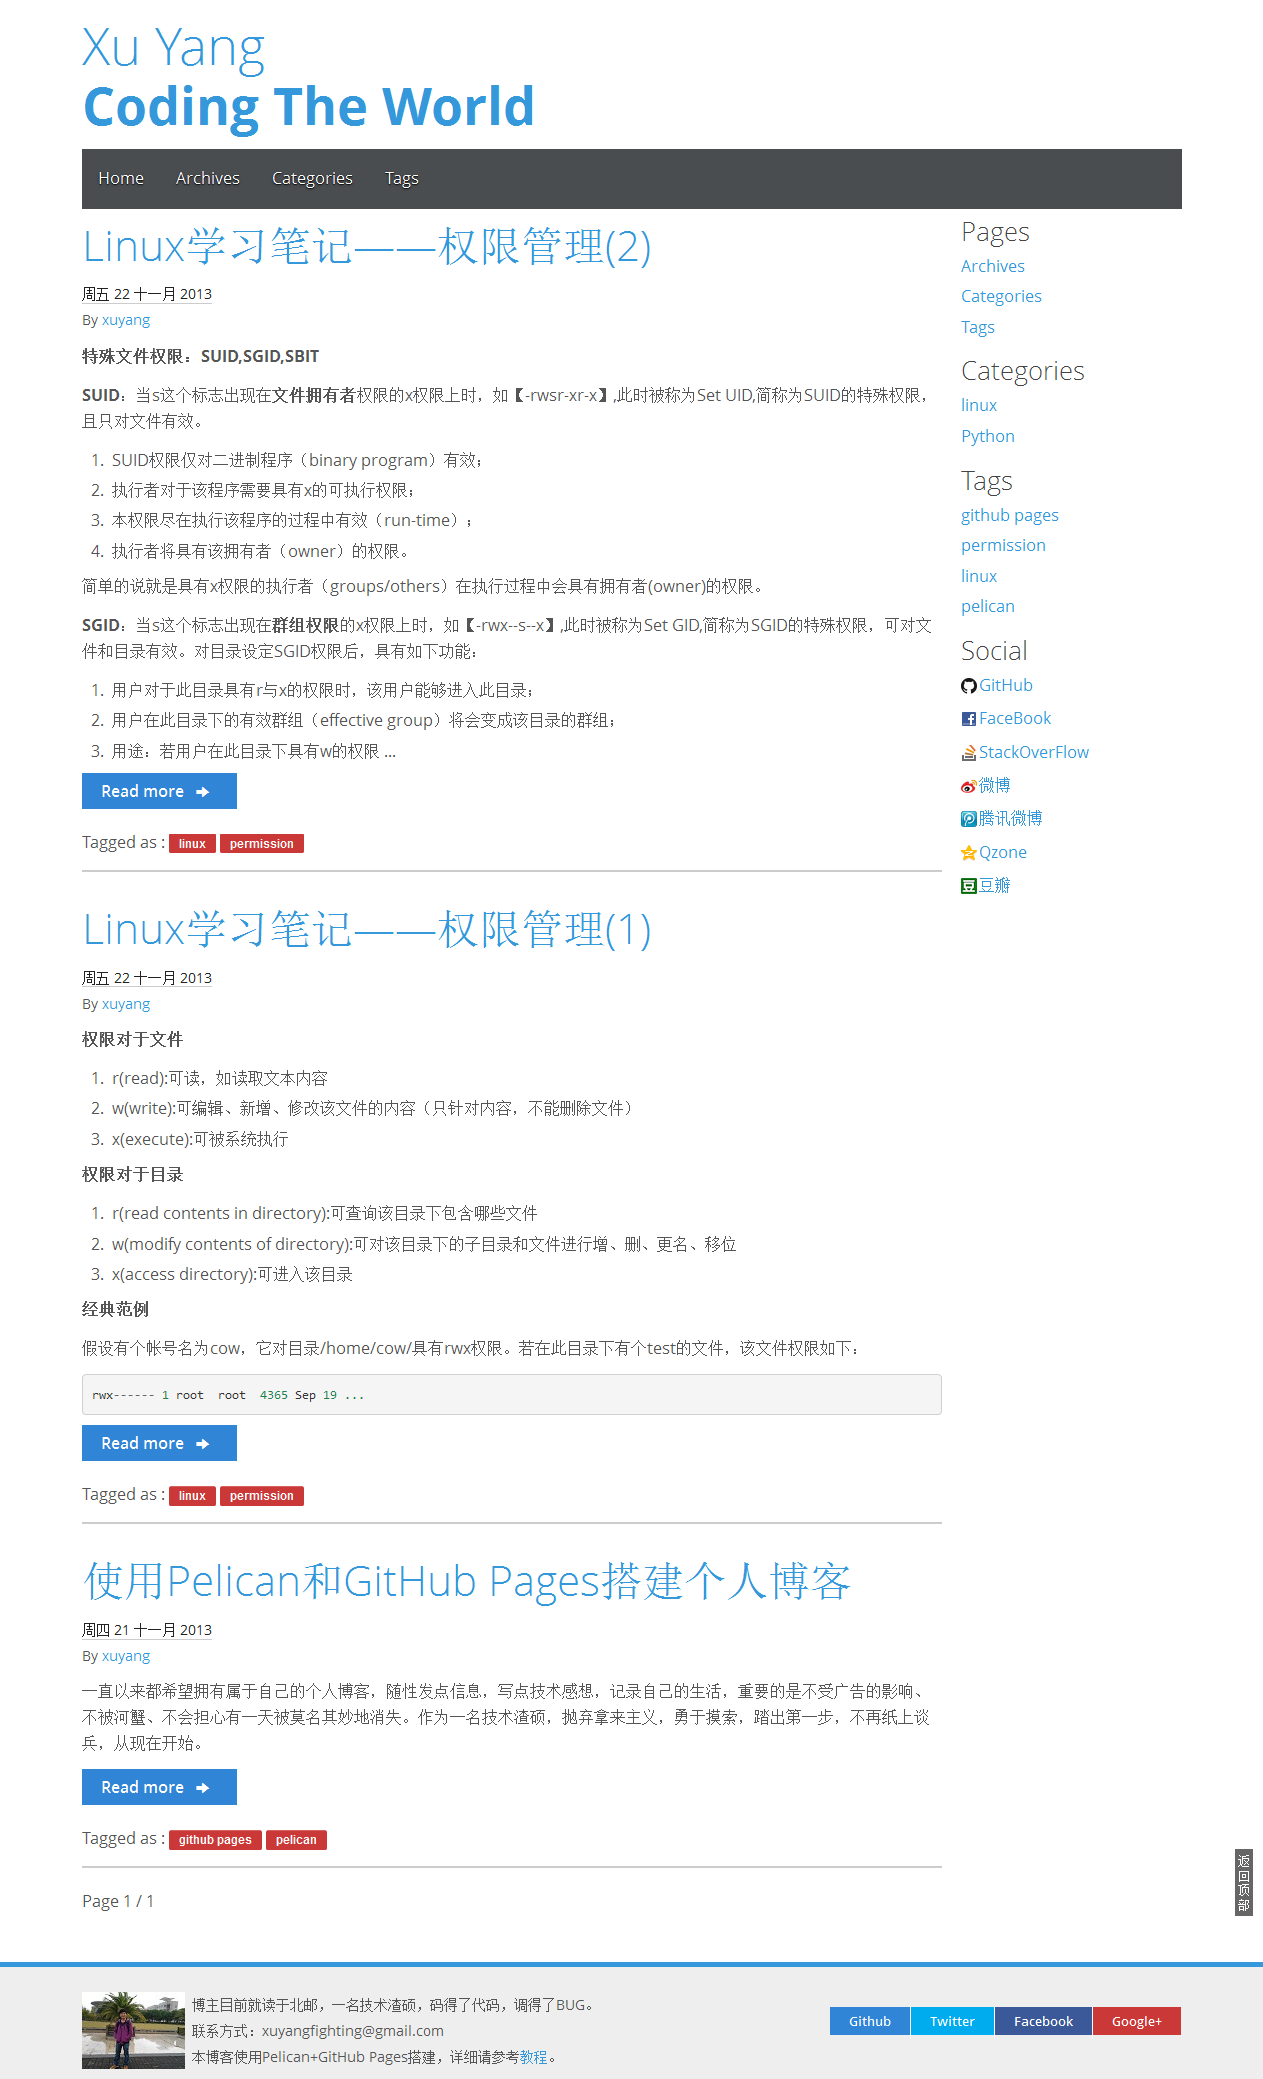
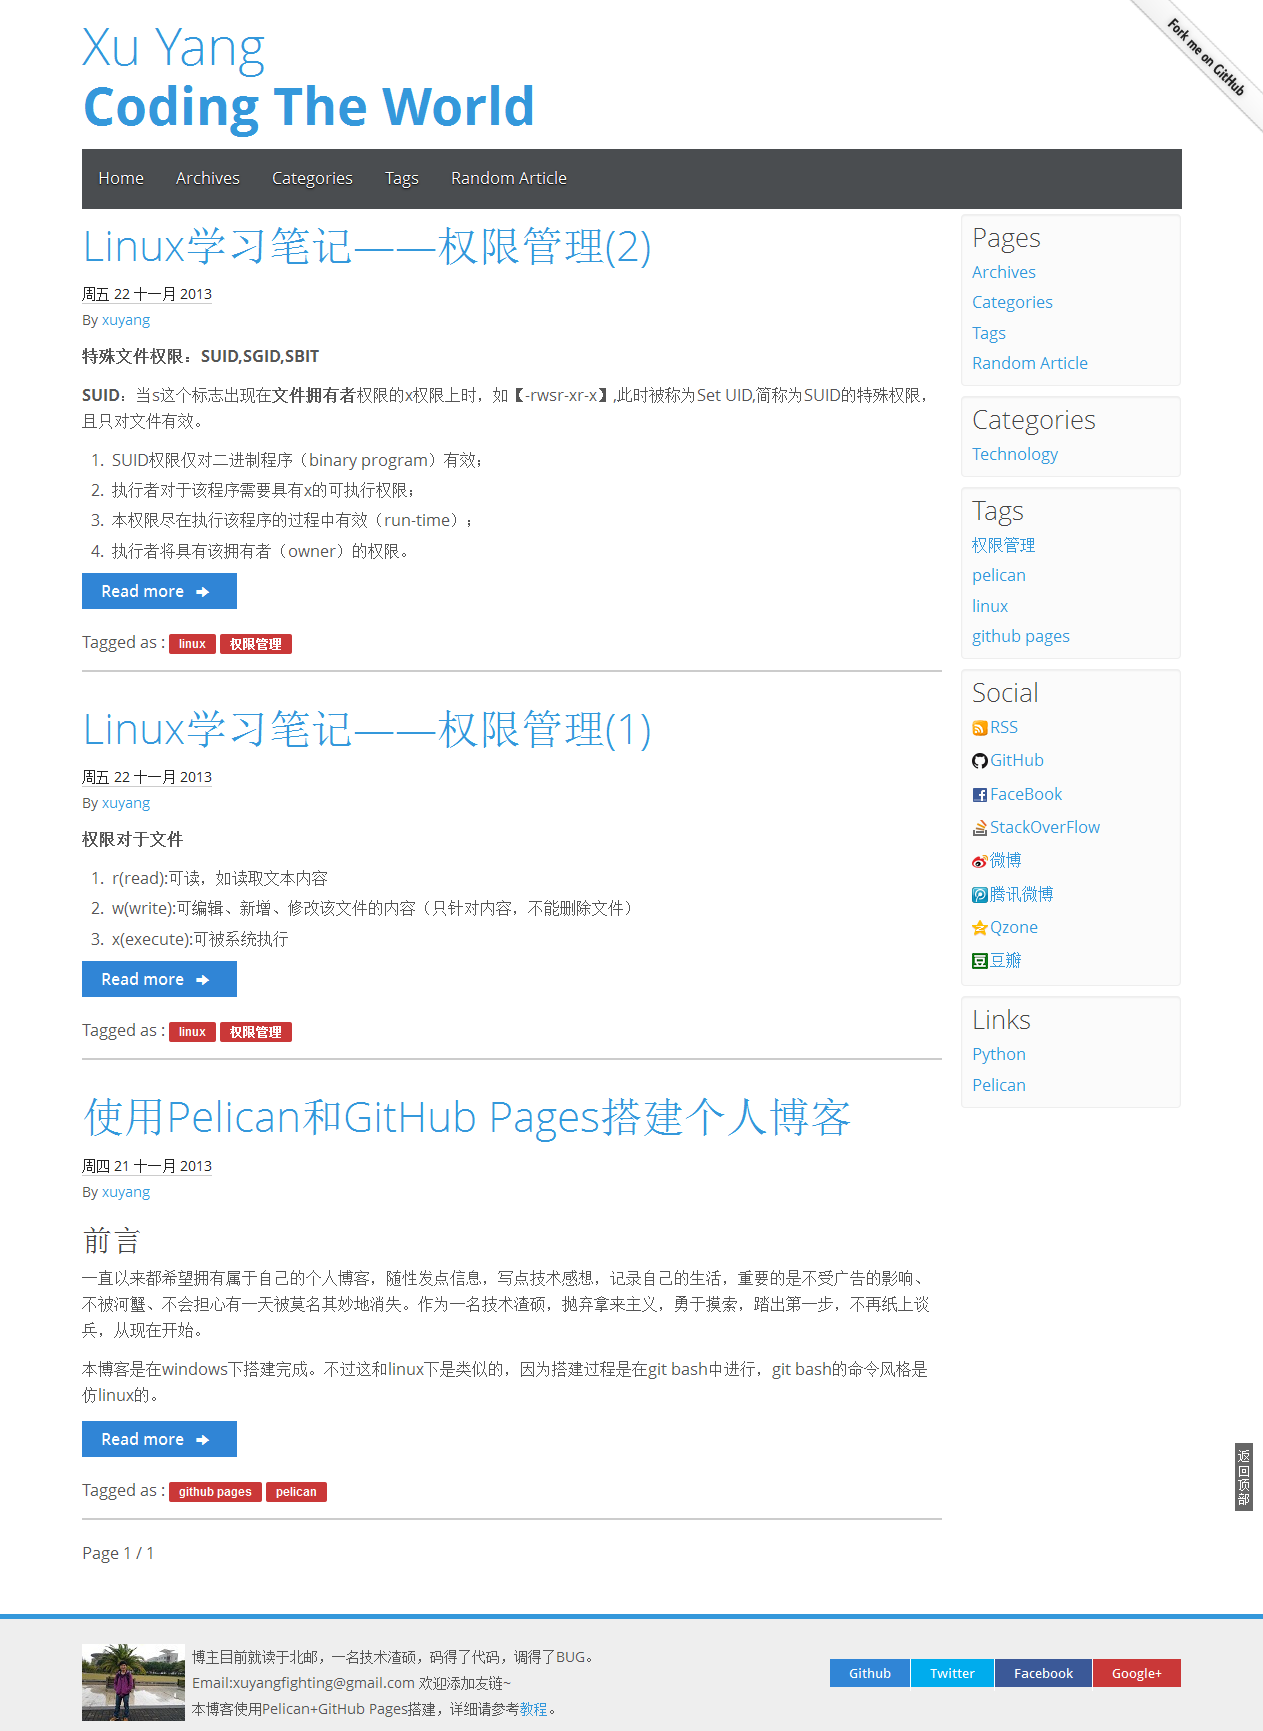
change

diff --git a/templates/sidebar.html b/templates/sidebar.html
@@ -1,55 +1,70 @@
 <div class="three columns">
 
-<h4>Pages</h4>
+<div class="sidebarbg">
+	<h4>Pages</h4>
+	<ul>
+	  {% for title, link in MENUITEMS %}
+		  <li><a href="{{ link }}">{{ title }}</a></li>
+	  {% endfor %}
+	  {% if DISPLAY_PAGES_ON_MENU %}
+		{% for p in PAGES %}
+		  <li{% if p == page %} class="active"{% endif %}><a href="{{ SITEURL }}/{{ p.url }}">{{ p.title }}</a></li>
+		{% endfor %}
+	  {% else %}
+		{% if DISPLAY_CATEGORIES_ON_MENU %}
+		  {% for cat, null in categories %}
+			<li{% if cat == category %} class="active"{% endif %}><a href="{{ SITEURL }}/{{ cat.url }}">{{ cat }}</a></li>
+		  {% endfor %}
+		{% endif %}
+	  {% endif %}
+	</ul>
+</div>
 
- <ul>
-  {% for title, link in MENUITEMS %}
-      <li><a href="{{ link }}">{{ title }}</a></li>
-  {% endfor %}
-  {% if DISPLAY_PAGES_ON_MENU %}
-    {% for p in PAGES %}
-      <li{% if p == page %} class="active"{% endif %}><a href="{{ SITEURL }}/{{ p.url }}">{{ p.title }}</a></li>
-    {% endfor %}
-  {% else %}
-    {% if DISPLAY_CATEGORIES_ON_MENU %}
-      {% for cat, null in categories %}
-        <li{% if cat == category %} class="active"{% endif %}><a href="{{ SITEURL }}/{{ cat.url }}">{{ cat }}</a></li>
-      {% endfor %}
-    {% endif %}
-  {% endif %}
-  </ul>
-
-<h4>Categories</h4>
 {% if categories %}
-<ul>
-	{% for cat, null in categories %}
-		<li><a href="{{ SITEURL }}/{{ cat.url|e }}">{{ cat }}</a></li>
-	{% endfor %}
-</ul>
+<div class="sidebarbg">
+<h4>Categories</h4>
+	<ul>
+		{% for cat, null in categories %}
+			<li><a href="{{ SITEURL }}/{{ cat.url|e }}">{{ cat }}</a></li>
+		{% endfor %}
+	</ul>
+</div>
 {% endif %}
 
-
-<h4>Tags</h4>
 {% if tags %}
-	<ul>
-	{% for tag in tag_cloud %}
-	    <li class="tag-{{ tag.1 }}"><a href="{{ SITEURL }}/{{ tag.0.url }}">{{ tag.0|e }}</a></li>
-	{% endfor %}
-</ul>
+<div class="sidebarbg">
+	<h4>Tags</h4>
+		<ul>
+		{% for tag in tag_cloud %}
+			<li class="tag-{{ tag.1 }}"><a href="{{ SITEURL }}/{{ tag.0.url }}">{{ tag.0|e }}</a></li>
+		{% endfor %}
+		</ul>
+</div>
 {% endif %}
 
 
 {% if SOCIAL %}
-<div class="social">
+<div class="social sidebarbg">
 	<nav class="widget">
 	  <h4>Social</h4>
 	  <ul>
 	  {% for name, url in SOCIAL %}
-		<li><a href="{{ url|e }}">{{ name }}</a></li>
+		<li><a target="_blank" href="{{ url|e }}">{{ name }}</a></li>
 	  {% endfor %}
 	  </ul>
 	</nav>
 </div>
+{% endif %}
+
+{% if LINKS %}
+<nav class="widget sidebarbg">
+  <h4>Links</h4>
+  <ul>
+  {% for name, url in LINKS %}
+	<li><a target="_blank" href="{{ url|e }}">{{ name }}</a></li>
+  {% endfor %}
+  </ul>
+</nav>
 {% endif %}
 
 </div>

diff --git a/templates/base.html b/templates/base.html
@@ -62,6 +62,12 @@
 
 <body id="index" class="home">
 
+<!-- Fork me on github -->
+{% if GITHUB_URL %}
+<a target="_blank" href="{{ GITHUB_URL }}">
+	<img style="position: absolute; top: 0px; right: 0; border: 0;" src="http://s3.amazonaws.com/github/ribbons/forkme_right_white_ffffff.png" alt="Fork me on GitHub" />
+</a>
+{% endif %}
 
     <div class="container">
 
@@ -108,10 +114,10 @@
     
         <footer id="credits" class="row">
           <div class="seven columns left-center">
-				   <img src="http://d.pcs.baidu.com/thumbnail/b16458171fe467e859e140f171ac5f3a?fid=3305307038-250528-707787867&time=1385611838&rt=pr&sign=FDTAER-DCb740ccc5511e5e8fedcff06b081203-PjDWo6vsWdntP6SC%2FR8R9BqR2zo%3D&expires=8h&r=492911975&size=c10000_u10000&quality=100" />												
+				   <img height="77px" width="103px" src="http://d.pcs.baidu.com/thumbnail/b16458171fe467e859e140f171ac5f3a?fid=3305307038-250528-707787867&time=1385641720&rt=pr&sign=FDTAER-DCb740ccc5511e5e8fedcff06b081203-Gjd4IgZVbnI4p3E2SfCzOdc5b%2Bk%3D&expires=8h&prisign=unkown&r=373163494&size=c10000_u10000&quality=100" />												
                    <address id="about" class="vcard body" style="margin-left:110px;margin-top:-85px">
 					博主目前就读于北邮，一名技术渣硕，码得了代码，调得了BUG。<br/>
-					联系方式：xuyangfighting@gmail.com<br/>
+					Email:xuyangfighting@gmail.com&nbsp;欢迎添加友链~<br/>
 					本博客使用Pelican+GitHub Pages搭建，详细请参考<a href="http://xycoding.com/pages/2013/11/21/create-blog/" class="active" target="_blank">教程</a>。
 				   </address>
           </div>

diff --git a/templates/article.html b/templates/article.html
@@ -1,4 +1,4 @@
-{% extends "base.html" %}
+{% extends "base.html" %}
 {% block title %}{{ article.title|striptags }}{% endblock %}
 {% block content %}
 <section id="content" class="body">
@@ -27,6 +27,26 @@
             <div class="entry-content">
               {{ article.content }}
             </div><!-- /.entry-content -->
+			
+			
+			<ul style="float:right;">
+			{% if article.prev_article %}
+				<li>
+					◄&nbsp;&nbsp;<a href="{{ SITEURL }}/{{ article.prev_article.url}}">
+						{{ article.prev_article.title }}
+					</a>
+				</li>
+			{% endif %}
+			{% if article.next_article %}
+				<li>
+					►&nbsp;&nbsp;<a href="{{ SITEURL }}/{{ article.next_article.url}}">
+						{{ article.next_article.title }}
+					</a>
+				</li>
+			{% endif %}
+			</ul>
+			
+			
             {% if DISQUS_SITENAME %}
             <div class="comments">
               <h3>Comments</h3>

diff --git a/static/gumby.css b/static/gumby.css
@@ -7139,6 +7139,23 @@ footer#credits .socbtns {
     filter: Alpha(opacity=60);
 }
 
+.sidebarbg {
+    background-color: #FBFBFB;
+    border: 1px solid rgba(0, 0, 0, 0.05);
+    border-radius: 4px;
+    box-shadow: 0 1px 1px rgba(0, 0, 0, 0.05) inset;
+    margin: 5px 0px 10px 0px;
+    min-height: 15px;
+}
+.sidebarbg h4, .sidebarbg a{
+	padding-left: 10px;
+}
+.sidebarbg a:hover{
+	display: block;
+	background-color: #EEEEEE;
+	text-decoration: none;
+	padding-left: 10px;
+}
 
 
 

diff --git a/templates/index.html b/templates/index.html
@@ -1,15 +1,14 @@
 {% extends "base.html" %}
 {% block content %}
 <section id="content">
-{% block content_title %}
-
-{% endblock %}
-
 
    <div class="row">
 
-
         <div class="eleven columns">
+				{% block content_title %}
+
+				{% endblock %}
+		
 		         <ol id="post-list">
 				{% for article in articles_page.object_list %}
 				        <li><article class="hentry">
